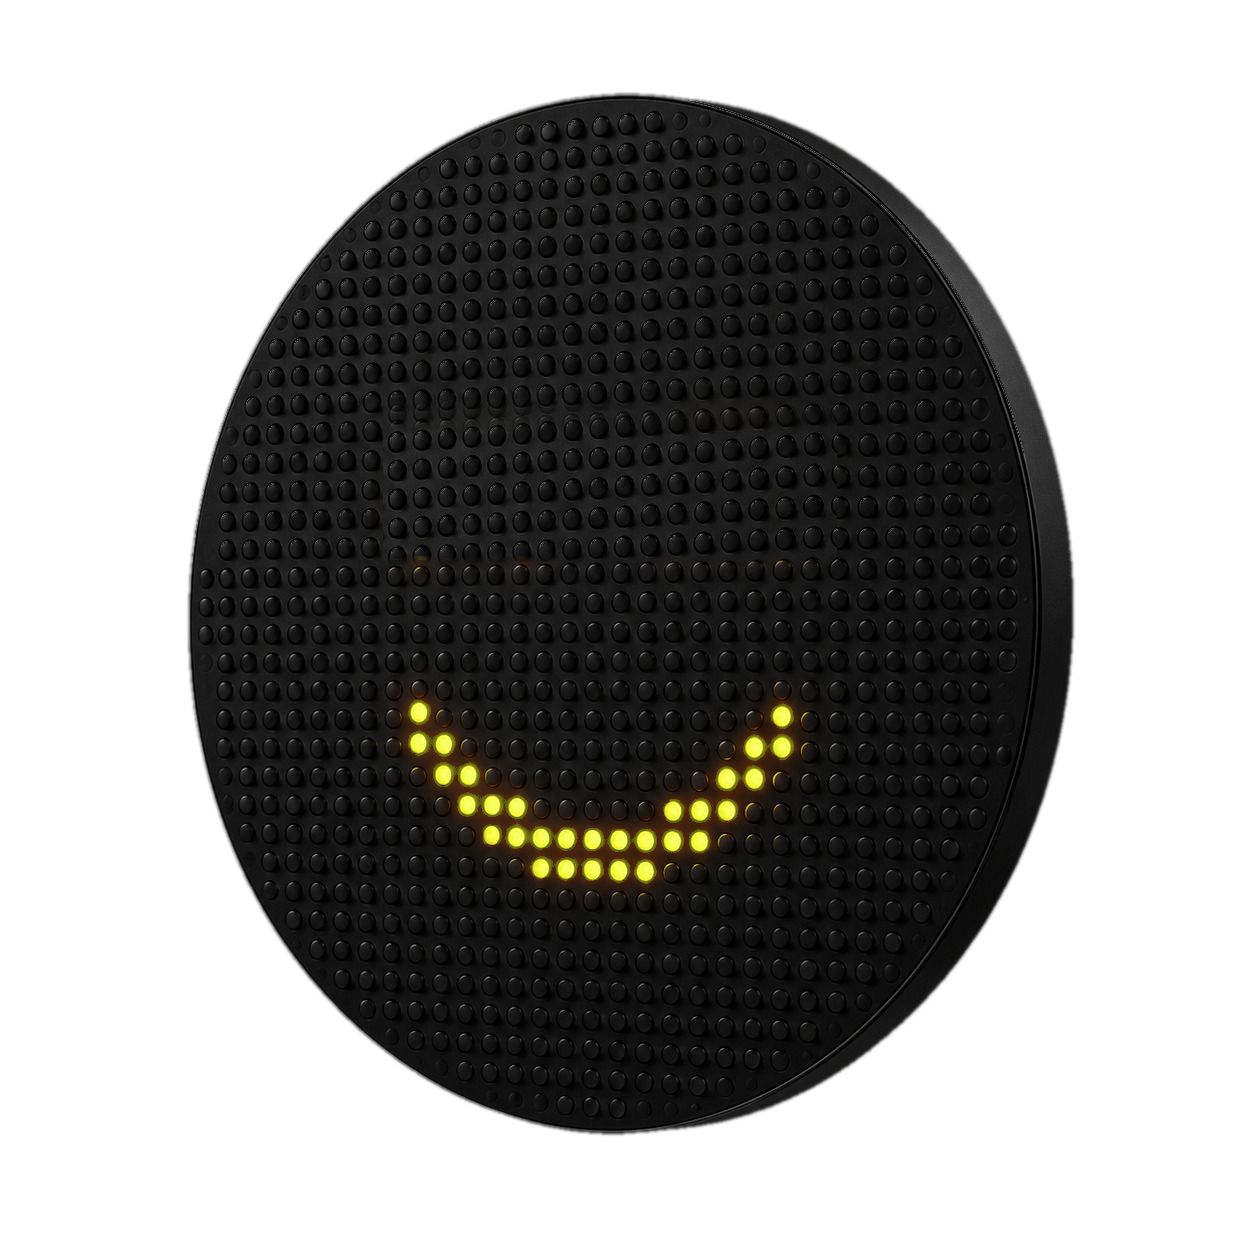
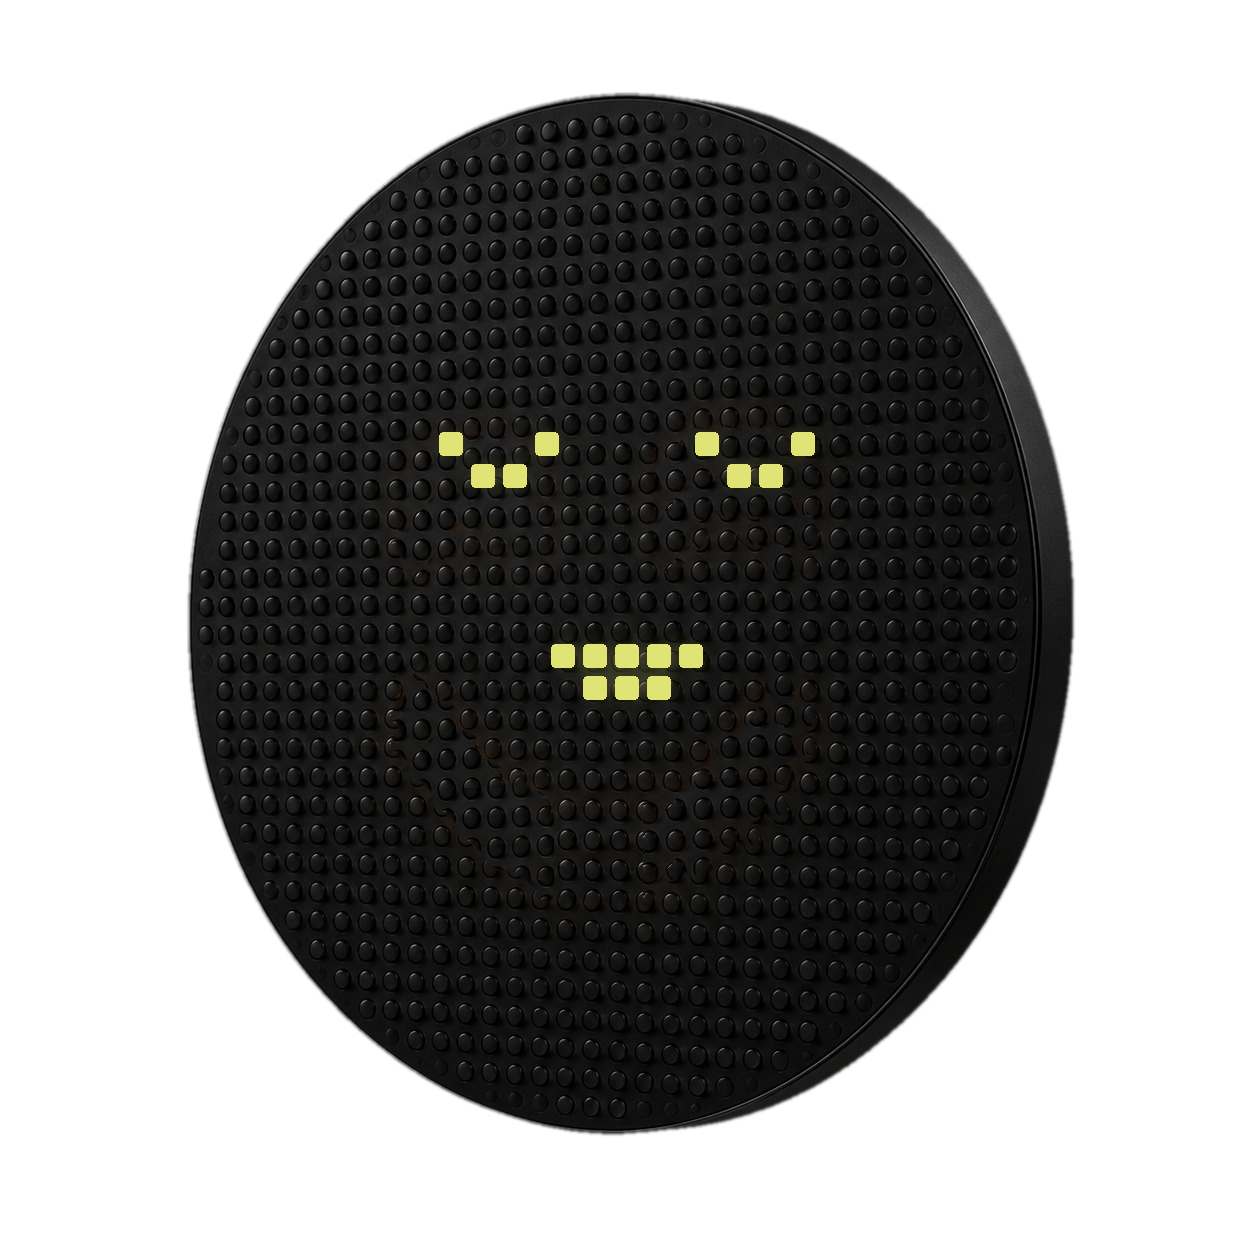
feat(landing): glassmorphism 2.0 pass + device opening flow + pixel-face display
Glass: four-layer premium recipe (gradient fill, 20px blur + saturation, light-catching 1px edge + hairline dark rim, soft glow) on .glass, .theme-sand .glass, .feature-glass and the pricing panel — hero paragraph, device copy pane, feature cards, nav pill and pricing rows all read through frosted panes instead of colliding with the 3D shapes.

Device section: copy pane enriched (prism mark, organ chips, Founding-500 CTA that opens the apply modal in place); section opens on the face-on assembled photo (new-smile.png) which dissolves into the 9-layer explode; the Dot-Matrix Display layer refaced to the pixel face (squint eyes + block grin, v10) rebuilt clean from the original render. /mrk hero uses the new tilted render (new-smile1).

Contact: the two Email/LinkedIn cards removed (links live in the footer).

Changed region(s): [[0.311, 0.5287, 0.6531, 0.7153], [0.311, 0.3421, 0.6531, 0.4665], [0.4354, 0.4976, 0.5598, 0.5598]]

diff --git a/web/components/device/DeviceShowcase.tsx b/web/components/device/DeviceShowcase.tsx
@@ -3,6 +3,56 @@
 
 import { useEffect, useRef, useState } from "react";
 import { motion, useScroll, useSpring, useTransform, type MotionValue } from "framer-motion";
+import { ArrowRight, Brain, Camera, Mic } from "lucide-react";
+import Logo from "@/components/app/Logo";
+
+// the device's three organs — spec chips inside the copy pane
+const ORGANS = [
+  { icon: Mic, label: "Mic — hears the room" },
+  { icon: Camera, label: "Camera — sees it", tag: "V2" },
+  { icon: Brain, label: "Agent — your CMO inside" },
+] as const;
+
+// opens the Founding-500 modal (mounted by the Pricing section on this page)
+const openWaitlist = () => window.dispatchEvent(new Event("mrk18:open-waitlist"));
+
+/** The copy pane's lower half: divider, organ chips, CTA row. Shared by the
+ *  desktop sticky pane and the narrow static pane so both stay identical. */
+function PaneExtras({ centered = false }: { centered?: boolean }) {
+  return (
+    <>
+      <div
+        className={`mt-6 flex flex-wrap gap-2 border-t border-[rgba(27,24,21,0.12)] pt-6 ${
+          centered ? "justify-center" : ""
+        }`}
+      >
+        {ORGANS.map(({ icon: Icon, label, ...o }) => (
+          <span
+            key={label}
+            className="inline-flex items-center gap-1.5 rounded-full border border-[rgba(27,24,21,0.2)] bg-white/40 px-3 py-1.5 text-[12px] font-semibold text-ink"
+          >
+            <Icon size={13} className="shrink-0 text-molten" aria-hidden />
+            {label}
+            {"tag" in o && (
+              <span className="text-[10px] font-bold uppercase text-mute-2">{o.tag}</span>
+            )}
+          </span>
+        ))}
+      </div>
+      <div className={`mt-7 flex flex-wrap items-center gap-3 ${centered ? "justify-center" : ""}`}>
+        <button
+          onClick={openWaitlist}
+          className="inline-flex items-center gap-1.5 rounded-full bg-molten px-4 py-2.5 text-[13px] font-bold text-white transition hover:opacity-90"
+        >
+          Reserve a Founding 500 seat <ArrowRight size={14} aria-hidden />
+        </button>
+        <span className="rounded-full border border-[rgba(27,24,21,0.2)] px-3 py-1.5 text-[10.5px] font-bold uppercase tracking-wide text-muted">
+          Launching soon
+        </span>
+      </div>
+    </>
+  );
+}
 
 /* ---------------------------------------------------------------------------
    "CMO in your pocket" — 2.5D exploded device on the cream page.
@@ -17,7 +67,7 @@ type LayerDef = { src: string; label: string; scale: number };
 // closed — only the dark shell rim + glass rim show around the smile screen.
 const LAYERS: LayerDef[] = [
   { src: "/device/device-1-glass.png?v=3", label: "Front Glass Cover", scale: 1.0 },
-  { src: "/device/device-2-display.png?v=2", label: "Dot-Matrix Display", scale: 0.94 },
+  { src: "/device/device-2-display.png?v=10", label: "Dot-Matrix Display", scale: 0.94 },
   { src: "/device/device-3-sensor.png", label: "Sensor Array Puck", scale: 0.86 },
   { src: "/device/device-4-pcb.png", label: "Main Logic Board", scale: 0.92 },
   { src: "/device/device-5-haptic.png", label: "Haptic Motor", scale: 0.8 },
@@ -113,7 +163,7 @@ export default function DeviceShowcase() {
   // spring-smoothed scrub → buttery, premium motion with a touch of momentum
   const progress = useSpring(scrollYProgress, { stiffness: 70, damping: 18, mass: 0.4 });
   const stageScale = useTransform(progress, [0, 1], [0.95, 1.0]);
-  // the assembled device photo sits on top when closed, then dissolves into the explode
+  // the assembled device photo opens the section, then dissolves into the explode
   const heroOpacity = useTransform(progress, [0, 0.1], [1, 0]);
 
   const [narrow, setNarrow] = useState(false);
@@ -132,17 +182,23 @@ export default function DeviceShowcase() {
     return (
       <section id="device" aria-label="CMO in your pocket" className="relative overflow-hidden px-6 py-20">
         <div className="mx-auto flex max-w-xl flex-col items-center text-center">
-          <span className="text-[12px] font-semibold uppercase tracking-[0.3em] text-ink">
-            01 — CMO in your pocket
-          </span>
-          <h2 className="mt-5 text-[clamp(1.9rem,7vw,2.6rem)] font-semibold leading-[1.14] text-ink">
-            <span className="block">Your marketing brain —</span>
-            <span className="block text-gradient">now a device you carry.</span>
-          </h2>
-          <p className="mt-5 max-w-md text-[1rem] leading-relaxed text-ink">
-            Nine layers of hardware, one glanceable companion — your CMO, distilled into
-            something small enough to live in your pocket.
-          </p>
+          {/* same glass pane as the desktop copy block */}
+          <div className="glass flex flex-col items-center rounded-2xl p-6 sm:p-7">
+            <span className="flex items-center gap-2.5 text-[12px] font-semibold uppercase tracking-[0.3em] text-ink">
+              <Logo size={15} className="shrink-0" />
+              01 — CMO in your pocket
+            </span>
+            <h2 className="mt-5 text-[clamp(1.9rem,7vw,2.6rem)] font-semibold leading-[1.14] text-ink">
+              <span className="block">Your marketing brain —</span>
+              <span className="block text-gradient">now a device you carry.</span>
+            </h2>
+            <p className="mt-5 max-w-md text-[1rem] leading-relaxed text-ink">
+              Nine layers of hardware, one glanceable companion — your CMO, distilled into
+              something small enough to live in your pocket.
+            </p>
+            <PaneExtras centered />
+          </div>
+          {/* the assembled device — same opening shot as the desktop sequence */}
           <div className="relative mt-12 aspect-square w-[min(72vw,300px)]">
             <img
               src="/device/new-smile.png"
@@ -165,22 +221,27 @@ export default function DeviceShowcase() {
             className={`pointer-events-none absolute inset-x-0 top-0 z-10 flex h-full flex-col ${
               // justify-start: a centered copy block leaves the sticky screen's whole
               // top half empty while the section scrolls in — the ugly gap after the marquee
-              narrow ? "items-center pt-24 text-center" : "justify-start pt-[16vh]"
+              narrow ? "items-center pt-24 text-center" : "justify-start pt-[12vh]"
             }`}
           >
             <div className="mx-auto w-full max-w-6xl px-6">
-              <div className={narrow ? "mx-auto max-w-xl" : "max-w-[clamp(20rem,30vw,24rem)]"}>
-                <span className="text-[12px] font-semibold uppercase tracking-[0.3em] text-ink">
+              {/* one glass pane for the whole copy block — the drifting 3D shapes
+                  frost through it instead of colliding with the text. Fuller card:
+                  brand mark, organ chips + a real CTA so the column earns its space. */}
+              <div className={narrow ? "mx-auto max-w-xl" : "glass pointer-events-auto max-w-[clamp(22rem,34vw,28rem)] rounded-2xl p-7 md:p-8"}>
+                <span className="flex items-center gap-2.5 text-[12px] font-semibold uppercase tracking-[0.3em] text-ink">
+                  <Logo size={15} className="shrink-0" />
                   01 — CMO in your pocket
                 </span>
                 <h2 className="mt-5 text-[clamp(1.7rem,3.1vw,2.35rem)] font-semibold leading-[1.12] text-ink">
                   <span className="block">Your marketing brain —</span>
                   <span className="block text-gradient">now a device you carry.</span>
                 </h2>
-                <p className="mt-6 max-w-md text-[1.05rem] leading-relaxed text-ink">
+                <p className="mt-5 text-[1.02rem] leading-relaxed text-ink">
                   Nine layers of hardware, one glanceable companion — your CMO, distilled
                   into something small enough to live in your pocket.
                 </p>
+                <PaneExtras />
               </div>
             </div>
           </div>
@@ -191,7 +252,7 @@ export default function DeviceShowcase() {
               {LAYERS.map((_, i) => (
                 <Layer key={i} progress={progress} i={i} narrow={narrow} />
               ))}
-              {/* the real device, assembled — the closed hero; dissolves as the explode begins */}
+              {/* the assembled device — the opening shot; fades as scrolling begins */}
               <motion.img
                 src="/device/new-smile.png"
                 alt="the mrk device"

diff --git a/web/app/globals.css b/web/app/globals.css
@@ -125,11 +125,20 @@ body {
   color: transparent;
 }
 
+/* Glassmorphism 2.0 — four interacting layers, never a flat frost:
+   1. surface fill: a 135deg gradient (light catches the top-left of the pane)
+   2. background blur: 20px + saturation lift
+   3. inner border: 1px light-catching edge — this is what gives the pane
+      "thickness"; without it the element melts into the background
+   4. soft glow: a wide, low-alpha shadow lifting the pane off the page */
 .glass {
-  background: var(--glass);
-  -webkit-backdrop-filter: blur(18px);
-  backdrop-filter: blur(18px);
-  border: 1px solid var(--stroke);
+  background: linear-gradient(135deg, rgba(34, 34, 38, 0.62), rgba(16, 16, 18, 0.42));
+  -webkit-backdrop-filter: blur(20px) saturate(140%);
+  backdrop-filter: blur(20px) saturate(140%);
+  border: 1px solid rgba(255, 255, 255, 0.1);
+  box-shadow:
+    inset 0 1px 0 rgba(255, 255, 255, 0.1),
+    0 8px 32px rgba(0, 0, 0, 0.35);
 }
 
 .gradient-border-l {
@@ -502,9 +511,20 @@ body {
      the gradient's darkest corner while staying clearly muted next to the ink */
   color: #514a41;
 }
+/* Glassmorphism 2.0, light adaptation: same four layers on the cream page —
+   the gradient fill brightens toward the top-left, the 1px WHITE border is the
+   light catching the pane's edge (a dark border here is the "frosted plastic"
+   mistake), the inset highlight gives thickness, the warm shadow is the glow. */
 .theme-sand .glass {
-  background: rgba(255, 255, 255, 0.66);
-  border-color: rgba(27, 24, 21, 0.12);
+  /* transparent enough that the 3D objects visibly frost THROUGH the pane —
+     an opaque fill is why glass reads as a flat white sticker on light pages */
+  background: linear-gradient(135deg, rgba(255, 255, 255, 0.58), rgba(255, 255, 255, 0.2));
+  border-color: rgba(255, 255, 255, 0.9);
+  box-shadow:
+    inset 0 1px 0 rgba(255, 255, 255, 0.95),
+    inset 0 -1px 0 rgba(255, 255, 255, 0.3),
+    0 0 0 1px rgba(27, 24, 21, 0.05),
+    0 12px 40px rgba(27, 24, 21, 0.16);
 }
 .theme-sand .border-stroke {
   border-color: rgba(27, 24, 21, 0.12);
@@ -602,20 +622,23 @@ body {
   }
 }
 
-/* ---------- features cards — same cream liquid glass as "How it works" ---------- */
+/* ---------- features cards — Glassmorphism 2.0, same recipe as .glass ----------
+   The old 3px blur left the 3D shapes nearly sharp behind the titles; 20px turns
+   them into soft frosted color. Fill is translucent (not opaque) so the pane still
+   reads as glass, and the bright edge + hairline dark rim give it thickness. */
 .feature-glass {
   position: relative;
   overflow: hidden;
   border-radius: 1.5rem;
-  background: linear-gradient(135deg, rgba(255, 255, 255, 0.14), rgba(255, 255, 255, 0.04));
-  -webkit-backdrop-filter: blur(3px) saturate(150%) brightness(1.05);
-  backdrop-filter: blur(3px) saturate(150%) brightness(1.05);
-  border: 1px solid rgba(255, 255, 255, 0.58);
+  background: linear-gradient(135deg, rgba(255, 255, 255, 0.58), rgba(255, 255, 255, 0.2));
+  -webkit-backdrop-filter: blur(20px) saturate(140%);
+  backdrop-filter: blur(20px) saturate(140%);
+  border: 1px solid rgba(255, 255, 255, 0.9);
   box-shadow:
-    0 22px 55px rgba(27, 24, 21, 0.1),
-    inset 0 1px 1px rgba(255, 255, 255, 0.92),
-    inset 0 -1px 3px rgba(255, 255, 255, 0.35),
-    inset 0 0 0 1px rgba(255, 255, 255, 0.15);
+    inset 0 1px 0 rgba(255, 255, 255, 0.95),
+    inset 0 -1px 0 rgba(255, 255, 255, 0.3),
+    0 0 0 1px rgba(27, 24, 21, 0.05),
+    0 12px 40px rgba(27, 24, 21, 0.16);
 }
 @supports not ((backdrop-filter: blur(1px)) or (-webkit-backdrop-filter: blur(1px))) {
   .feature-glass {

diff --git a/web/components/sections/Contact.tsx b/web/components/sections/Contact.tsx
@@ -1,10 +1,5 @@
 import Reveal from "../ui/Reveal";
 
-const CARDS = [
-  { label: "Email", value: "mrk18ai@gmail.com", href: "mailto:mrk18ai@gmail.com" },
-  { label: "LinkedIn", value: "mrk ai", href: "https://www.linkedin.com/in/mrk-ai-4a78a9409" },
-];
-
 export default function Contact() {
   return (
     <section id="waitlist" className="relative px-6 py-24">
@@ -26,25 +21,6 @@ export default function Contact() {
           </a>
         </Reveal>
 
-        <div className="mt-20 grid grid-cols-1 gap-6 md:grid-cols-2">
-          {CARDS.map((card, i) => (
-            <Reveal key={card.label} delay={0.15 + i * 0.08}>
-              <a
-                href={card.href}
-                target={card.href.startsWith("http") ? "_blank" : undefined}
-                rel={card.href.startsWith("http") ? "noopener noreferrer" : undefined}
-                className="glass group block rounded-2xl p-7 transition-colors duration-300 hover:border-amber/40"
-              >
-                <span className="text-[11px] font-semibold uppercase tracking-[0.24em] text-muted">
-                  {card.label}
-                </span>
-                <span className="mt-3 block text-lg font-semibold text-ink transition-colors duration-300 group-hover:text-amber">
-                  {card.value}
-                </span>
-              </a>
-            </Reveal>
-          ))}
-        </div>
       </div>
     </section>
   );

diff --git a/web/components/sections/LiquidGlassGrid.tsx b/web/components/sections/LiquidGlassGrid.tsx
@@ -1,10 +1,12 @@
-/** One continuous liquid-glass panel — fills its nearest `relative` parent
- *  (the three pricing rows, not the section header). The floating 3D shapes
- *  frost + refract through it. Purely visual. */
+/** One continuous glass panel — fills its nearest `relative` parent (the three
+ *  pricing rows, not the section header). Glassmorphism 2.0, same recipe as the
+ *  hero/device/feature panes: translucent gradient fill + 20px blur so the 3D
+ *  shapes frost through as soft color instead of colliding with the row text,
+ *  bright light-catching edge + hairline dark rim for thickness. Purely visual. */
 export default function LiquidGlassGrid() {
   return (
     <div aria-hidden className="pointer-events-none absolute inset-0 overflow-hidden">
-      <div className="h-full w-full rounded-[2rem] border border-white/40 bg-gradient-to-br from-white/[0.13] to-white/[0.03] shadow-[inset_0_1px_1px_rgba(255,255,255,0.8)] backdrop-blur-[3px] backdrop-saturate-150 backdrop-brightness-[1.04]" />
+      <div className="h-full w-full rounded-[2rem] border border-white/90 bg-gradient-to-br from-white/[0.58] to-white/[0.2] shadow-[inset_0_1px_0_rgba(255,255,255,0.95),inset_0_-1px_0_rgba(255,255,255,0.3),0_0_0_1px_rgba(27,24,21,0.05),0_12px_40px_rgba(27,24,21,0.16)] backdrop-blur-[20px] backdrop-saturate-[1.4]" />
     </div>
   );
 }

diff --git a/web/components/sections/Hero.tsx b/web/components/sections/Hero.tsx
@@ -90,7 +90,7 @@ export default function Hero() {
           initial={{ opacity: 0, y: 24 }}
           animate={{ opacity: 1, y: 0 }}
           transition={{ delay: 2.75, duration: 0.7 }}
-          className="mt-8 max-w-xl text-lg leading-relaxed text-ink"
+          className="glass mt-8 max-w-xl rounded-2xl px-6 py-5 text-lg leading-relaxed text-ink"
         >
           The marketing brain founders can&apos;t afford to hire — yet. mrk18 reads your real
           numbers, flags what&apos;s leaking money, and hands you the next move in plain language.

diff --git a/web/app/mrk/page.tsx b/web/app/mrk/page.tsx
@@ -141,7 +141,7 @@ export default function MrkPage() {
                 className="pointer-events-none absolute inset-[10%] rounded-full bg-white/[0.06] blur-2xl"
               />
               <Image
-                src="/device/new-smile.png"
+                src="/device/new-smile1.png"
                 alt="the mrk device"
                 fill
                 sizes="(max-width: 1024px) 70vw, 320px"
